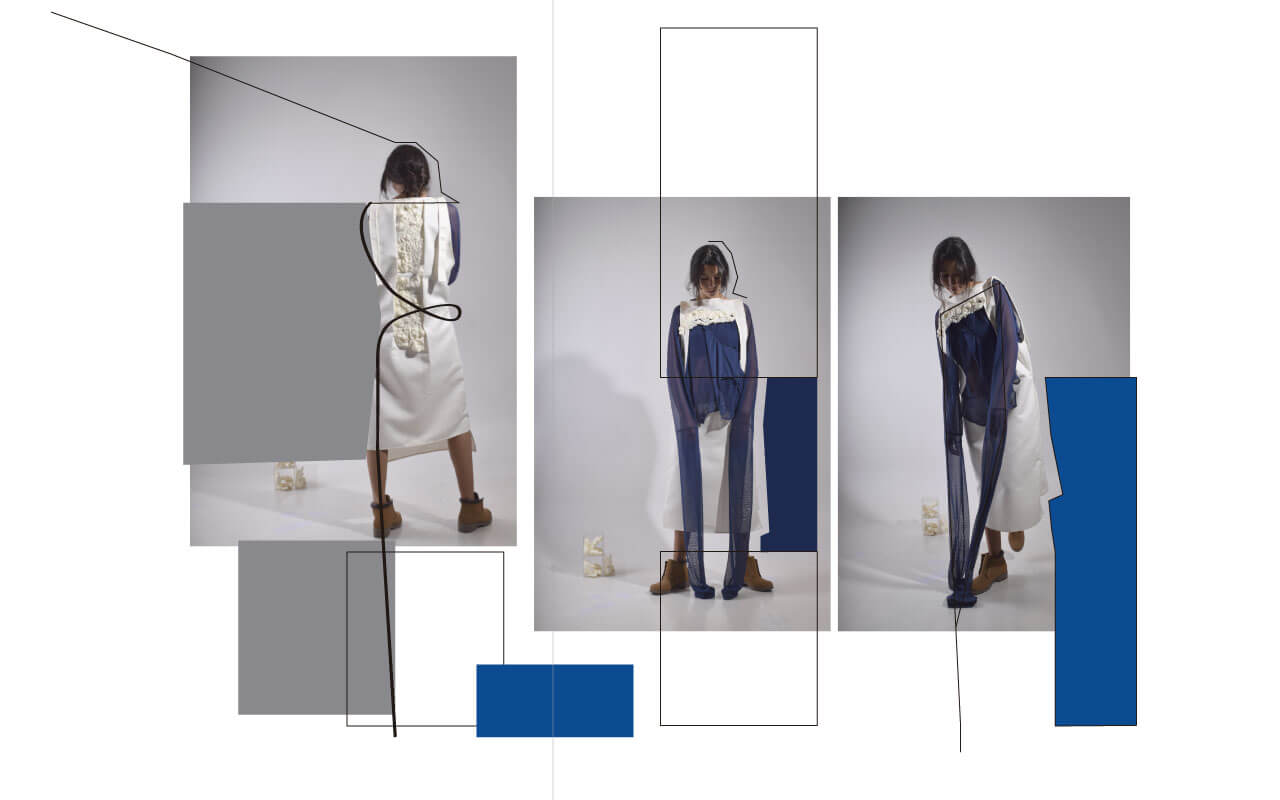
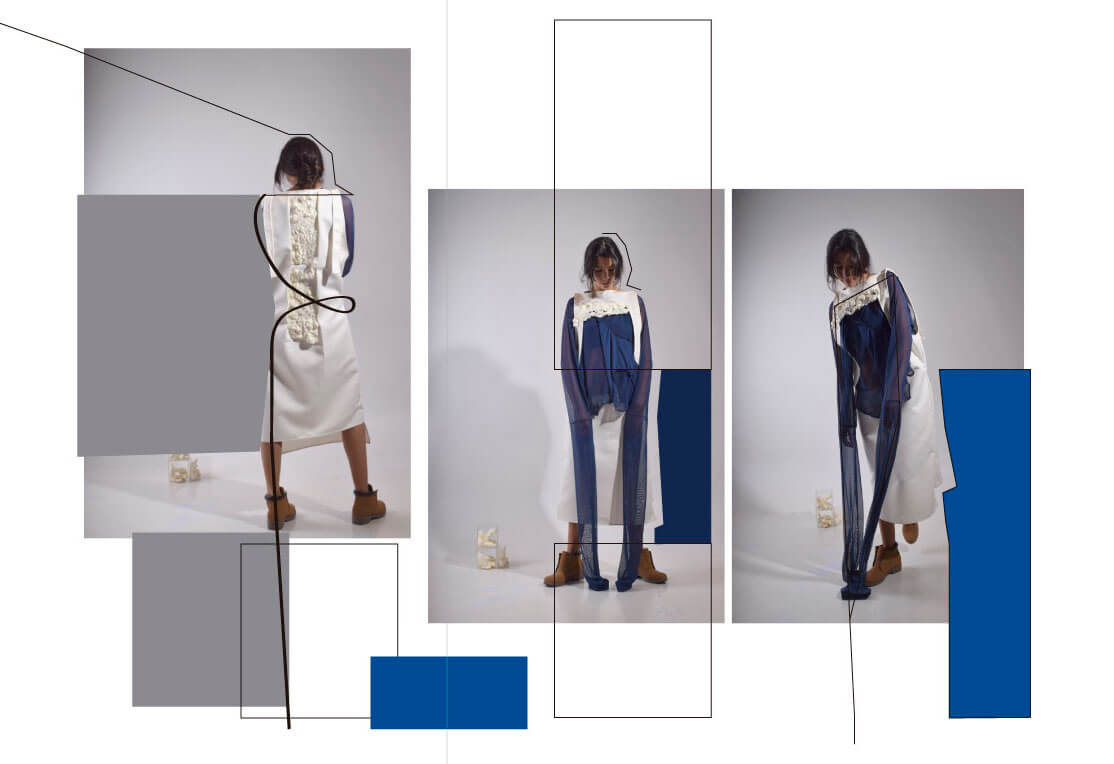
pb img dia 3bis

diff --git a/pages/portfolio/dia-tres.vue b/pages/portfolio/dia-tres.vue
@@ -105,7 +105,7 @@
           </div>
 
           <div id="ultima3" class="flex items-center justify-center w-full h-auto shadow-lg lg:min-h-screen cursor-mano" @click='toggleColorFoto'>
-            <img loading="lazy" alt="once" src="~assets/img/proyectos/diatres/11.jpg" class="object-cover w-full h-auto lg:object-contain lg:h-screen">
+            <img loading="lazy" alt="dies" src="~assets/img/proyectos/diatres/10.jpg" class="object-cover w-full h-auto lg:object-contain lg:h-screen">
           </div>
       </div>
   </div>
@@ -196,11 +196,6 @@ export default {
           id: 10,
           name: 'dies',
           src: require(`~/assets/img/proyectos/diatres/10.jpg`)
-        },
-        {
-          id: 11,
-          name: 'once',
-          src: require(`~/assets/img/proyectos/diatres/11.jpg`)
         }
       ]
     };
